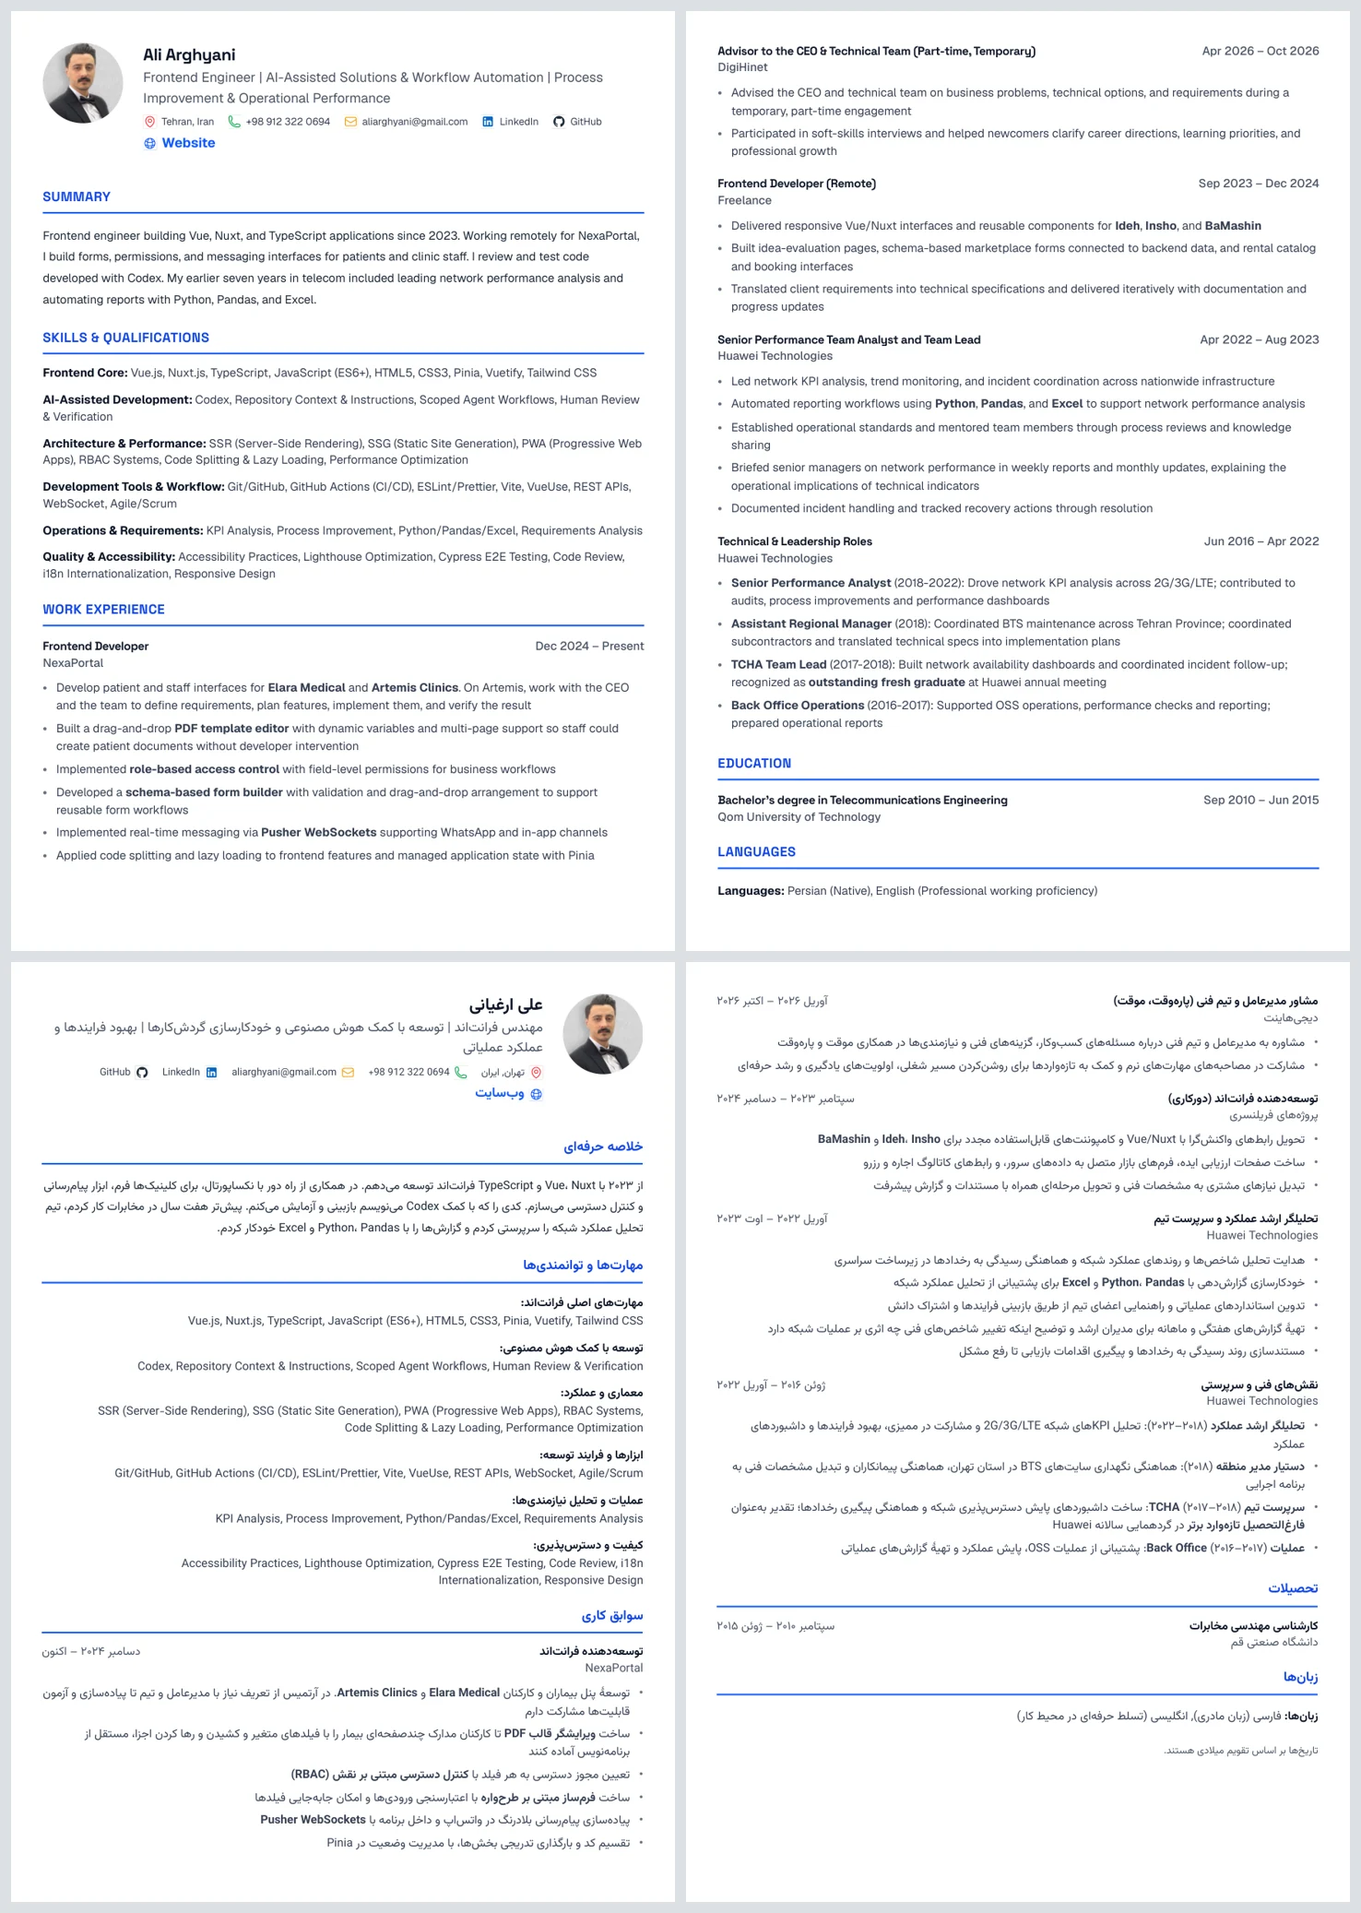
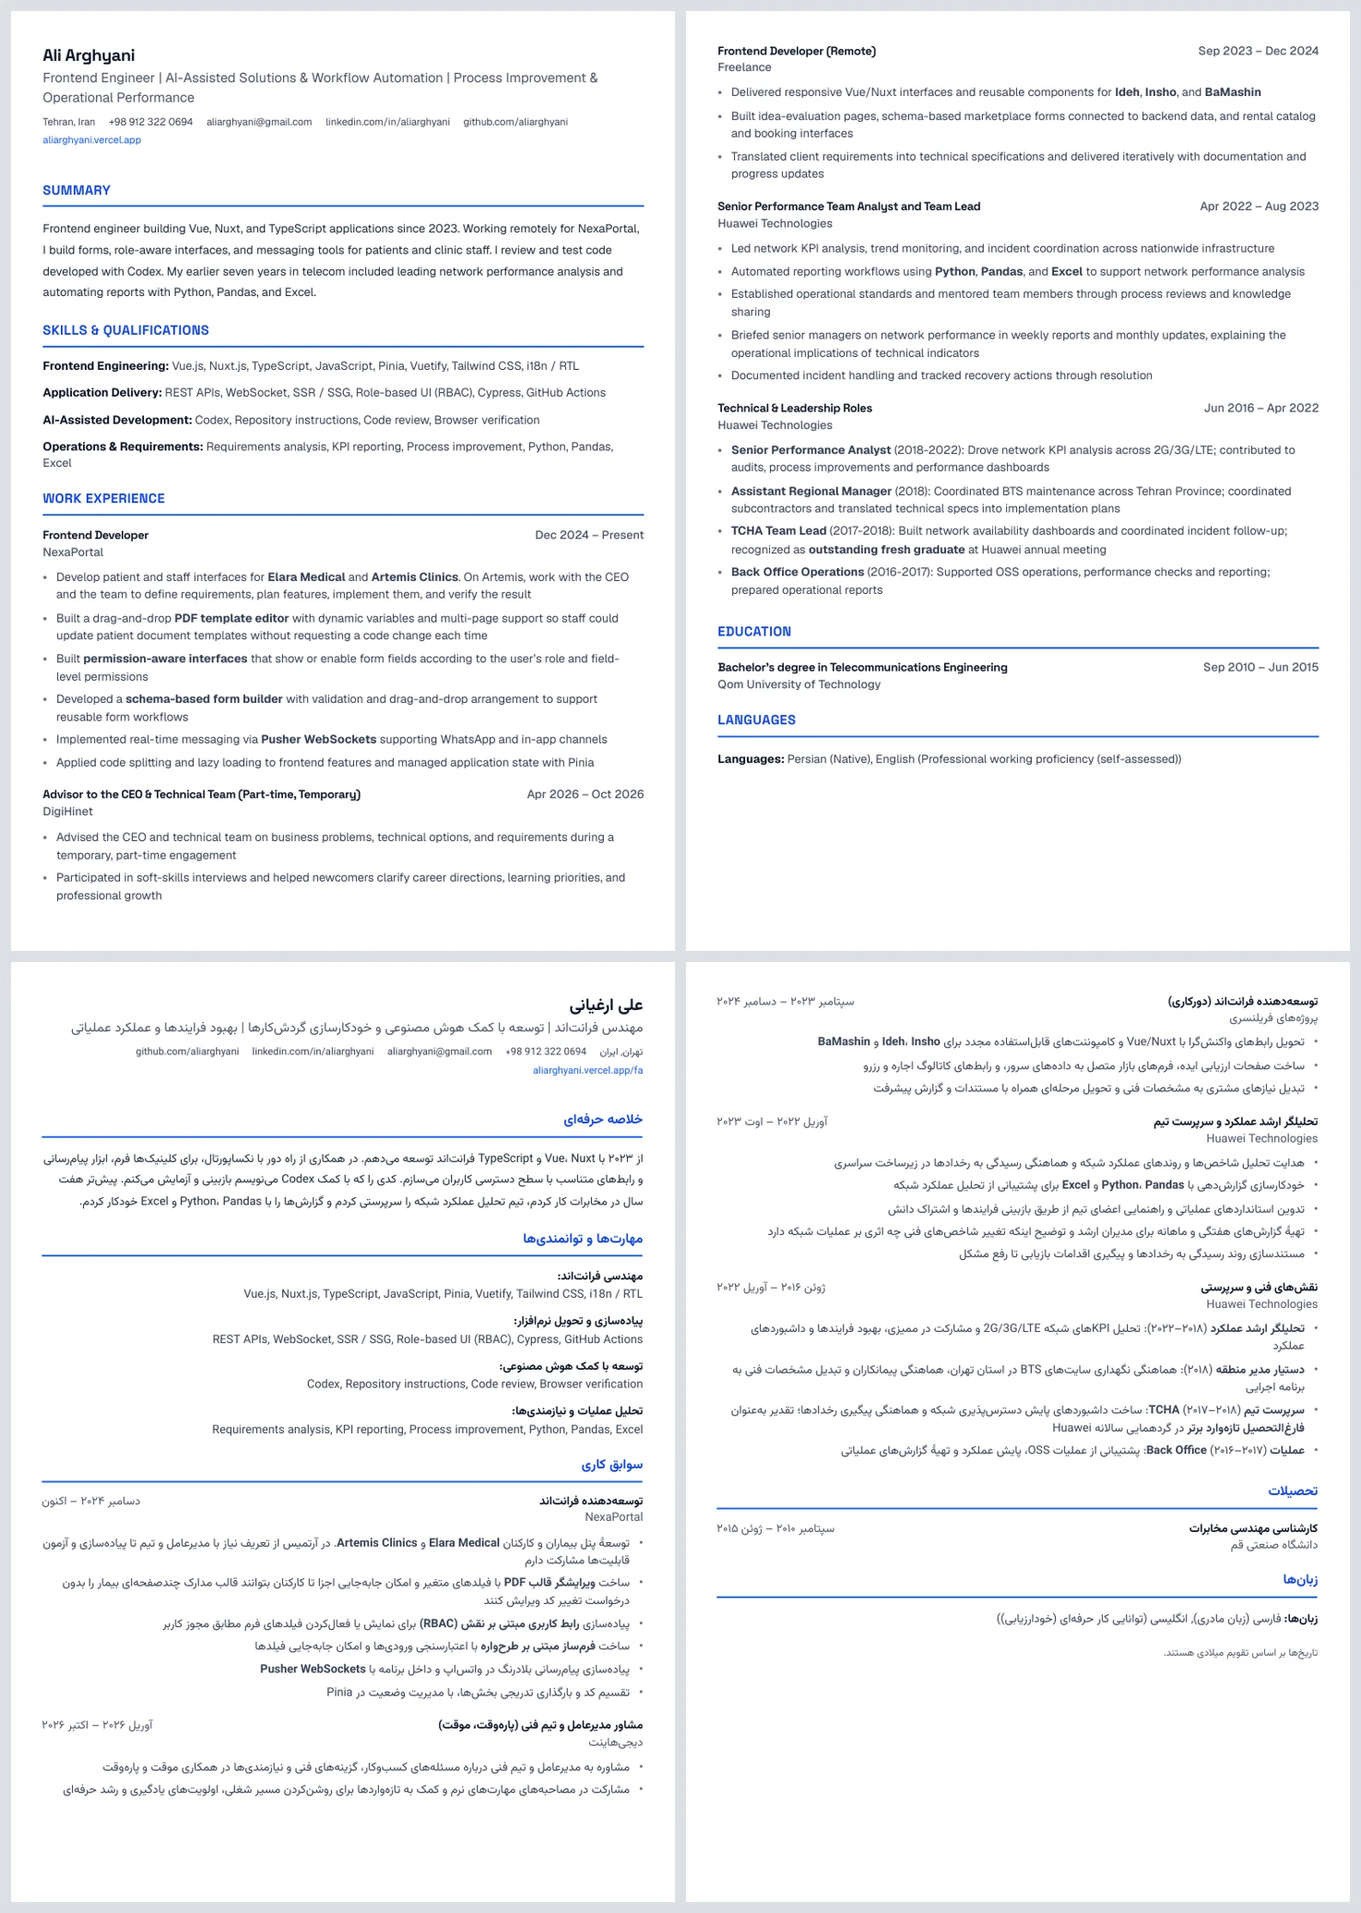
Refine bilingual resume content and application PDFs

diff --git a/app/data/resume.fa.ts b/app/data/resume.fa.ts
@@ -7,8 +7,8 @@ const workTranslations: Record<string, Partial<Resume["work"][number]>> = {
     location: "ازمیر، ترکیه · دورکاری",
     highlights: [
       "توسعهٔ پنل بیماران و کارکنان **Elara Medical** و **Artemis Clinics**. در آرتمیس از تعریف نیاز با مدیرعامل و تیم تا پیادهسازی و آزمون قابلیتها مشارکت دارم",
-      "ساخت **ویرایشگر قالب PDF** تا کارکنان مدارک چندصفحهای بیمار را با فیلدهای متغیر و کشیدن و رها کردن اجزا، مستقل از برنامهنویس آماده کنند",
-      "تعیین مجوز دسترسی به هر فیلد با **کنترل دسترسی مبتنی بر نقش (RBAC)**",
+      "ساخت **ویرایشگر قالب PDF** با فیلدهای متغیر و امکان جابهجایی اجزا تا کارکنان بتوانند قالب مدارک چندصفحهای بیمار را بدون درخواست تغییر کد ویرایش کنند",
+      "پیادهسازی **رابط کاربری مبتنی بر نقش (RBAC)** برای نمایش یا فعالکردن فیلدهای فرم مطابق مجوز کاربر",
       "ساخت **فرمساز مبتنی بر طرحواره** با اعتبارسنجی ورودیها و امکان جابهجایی فیلدها",
       "پیادهسازی پیامرسانی بلادرنگ در واتساپ و داخل برنامه با **Pusher WebSockets**",
       "تقسیم کد و بارگذاری تدریجی بخشها، با مدیریت وضعیت در Pinia",
@@ -56,12 +56,10 @@ const workTranslations: Record<string, Partial<Resume["work"][number]>> = {
 };
 
 const skillNames: Record<string, string> = {
-  "Frontend Core": "مهارتهای اصلی فرانتاند",
+  "Frontend Engineering": "مهندسی فرانتاند",
+  "Application Delivery": "پیادهسازی و تحویل نرمافزار",
   "AI-Assisted Development": "توسعه با کمک هوش مصنوعی",
-  "Architecture & Performance": "معماری و عملکرد",
-  "Development Tools & Workflow": "ابزارها و فرایند توسعه",
-  "Operations & Requirements": "عملیات و تحلیل نیازمندیها",
-  "Quality & Accessibility": "کیفیت و دسترسپذیری",
+  "Operations & Requirements": "تحلیل عملیات و نیازمندیها",
 };
 
 const projectTranslations: Record<
@@ -116,7 +114,7 @@ export const resumeData: Resume = {
       "مهندس فرانتاند | توسعه با کمک هوش مصنوعی و خودکارسازی گردشکارها | بهبود فرایندها و عملکرد عملیاتی",
     location: { city: "تهران", country: "ایران" },
     summary:
-      "از ۲۰۲۳ با Vue، Nuxt و TypeScript فرانتاند توسعه میدهم. در همکاری از راه دور با نکساپورتال، برای کلینیکها فرم، ابزار پیامرسانی و کنترل دسترسی میسازم. کدی را که با کمک Codex مینویسم بازبینی و آزمایش میکنم. پیشتر هفت سال در مخابرات کار کردم، تیم تحلیل عملکرد شبکه را سرپرستی کردم و گزارشها را با Python، Pandas و Excel خودکار کردم.",
+      "از ۲۰۲۳ با Vue، Nuxt و TypeScript فرانتاند توسعه میدهم. در همکاری از راه دور با نکساپورتال، برای کلینیکها فرم، ابزار پیامرسانی و رابطهای متناسب با سطح دسترسی کاربران میسازم. کدی را که با کمک Codex مینویسم بازبینی و آزمایش میکنم. پیشتر هفت سال در مخابرات کار کردم، تیم تحلیل عملکرد شبکه را سرپرستی کردم و گزارشها را با Python، Pandas و Excel خودکار کردم.",
   },
   work: en.work.map((job) => ({
     ...job,
@@ -140,7 +138,7 @@ export const resumeData: Resume = {
   })),
   languages: [
     { language: "فارسی", fluency: "زبان مادری" },
-    { language: "انگلیسی", fluency: "تسلط حرفهای در محیط کار" },
+    { language: "انگلیسی", fluency: "توانایی کار حرفهای (خودارزیابی)" },
   ],
   projects: en.projects?.map((project) => ({
     ...project,

diff --git a/app/data/resume.en.ts b/app/data/resume.en.ts
@@ -44,7 +44,7 @@ export const resumeData: Resume = {
       },
     ],
     summary:
-      "Frontend engineer building Vue, Nuxt, and TypeScript applications since 2023. Working remotely for NexaPortal, I build forms, permissions, and messaging interfaces for patients and clinic staff. I review and test code developed with Codex. My earlier seven years in telecom included leading network performance analysis and automating reports with Python, Pandas, and Excel.",
+      "Frontend engineer building Vue, Nuxt, and TypeScript applications since 2023. Working remotely for NexaPortal, I build forms, role-aware interfaces, and messaging tools for patients and clinic staff. I review and test code developed with Codex. My earlier seven years in telecom included leading network performance analysis and automating reports with Python, Pandas, and Excel.",
   },
 
   work: [
@@ -55,8 +55,8 @@ export const resumeData: Resume = {
       startDate: "2024-12",
       highlights: [
         "Develop patient and staff interfaces for **Elara Medical** and **Artemis Clinics**. On Artemis, work with the CEO and the team to define requirements, plan features, implement them, and verify the result",
-        "Built a drag-and-drop **PDF template editor** with dynamic variables and multi-page support so staff could create patient documents without developer intervention",
-        "Implemented **role-based access control** with field-level permissions for business workflows",
+        "Built a drag-and-drop **PDF template editor** with dynamic variables and multi-page support so staff could update patient document templates without requesting a code change each time",
+        "Built **permission-aware interfaces** that show or enable form fields according to the user’s role and field-level permissions",
         "Developed a **schema-based form builder** with validation and drag-and-drop arrangement to support reusable form workflows",
         "Implemented real-time messaging via **Pusher WebSockets** supporting WhatsApp and in-app channels",
         "Applied code splitting and lazy loading to frontend features and managed application state with Pinia",
@@ -131,70 +131,47 @@ export const resumeData: Resume = {
 
   skills: [
     {
-      name: "Frontend Core",
+      name: "Frontend Engineering",
       keywords: [
         "Vue.js",
         "Nuxt.js",
         "TypeScript",
-        "JavaScript (ES6+)",
-        "HTML5",
-        "CSS3",
+        "JavaScript",
         "Pinia",
         "Vuetify",
         "Tailwind CSS",
+        "i18n / RTL",
+      ],
+    },
+    {
+      name: "Application Delivery",
+      keywords: [
+        "REST APIs",
+        "WebSocket",
+        "SSR / SSG",
+        "Role-based UI (RBAC)",
+        "Cypress",
+        "GitHub Actions",
       ],
     },
     {
       name: "AI-Assisted Development",
       keywords: [
         "Codex",
-        "Repository Context & Instructions",
-        "Scoped Agent Workflows",
-        "Human Review & Verification",
-      ],
-    },
-    {
-      name: "Architecture & Performance",
-      keywords: [
-        "SSR (Server-Side Rendering)",
-        "SSG (Static Site Generation)",
-        "PWA (Progressive Web Apps)",
-        "RBAC Systems",
-        "Code Splitting & Lazy Loading",
-        "Performance Optimization",
-      ],
-    },
-    {
-      name: "Development Tools & Workflow",
-      keywords: [
-        "Git/GitHub",
-        "GitHub Actions (CI/CD)",
-        "ESLint/Prettier",
-        "Vite",
-        "VueUse",
-        "REST APIs",
-        "WebSocket",
-        "Agile/Scrum",
+        "Repository instructions",
+        "Code review",
+        "Browser verification",
       ],
     },
     {
       name: "Operations & Requirements",
       keywords: [
-        "KPI Analysis",
-        "Process Improvement",
-        "Python/Pandas/Excel",
-        "Requirements Analysis",
-      ],
-    },
-    {
-      name: "Quality & Accessibility",
-      keywords: [
-        "Accessibility Practices",
-        "Lighthouse Optimization",
-        "Cypress E2E Testing",
-        "Code Review",
-        "i18n Internationalization",
-        "Responsive Design",
+        "Requirements analysis",
+        "KPI reporting",
+        "Process improvement",
+        "Python",
+        "Pandas",
+        "Excel",
       ],
     },
   ],
@@ -206,7 +183,7 @@ export const resumeData: Resume = {
     },
     {
       language: "English",
-      fluency: "Professional working proficiency",
+      fluency: "Professional working proficiency (self-assessed)",
     },
   ],
 

diff --git a/app/components/resume/ResumeHeader.vue b/app/components/resume/ResumeHeader.vue
@@ -14,11 +14,11 @@ defineProps<Props>();
     class="flex flex-col sm:flex-row print:flex-row gap-4 sm:gap-6 mb-8 print:mb-8 print:pb-2"
   >
     <!-- Profile Photo (if provided) -->
-    <div v-if="basics.image" class="flex-shrink-0">
+    <div v-if="basics.image" class="flex-shrink-0 print:hidden">
       <img
         :src="basics.image"
         :alt="basics.name"
-        class="w-32 h-32 object-cover rounded-full print:w-24 print:h-24"
+        class="w-32 h-32 object-cover rounded-full"
       />
     </div>
 
@@ -39,7 +39,7 @@ defineProps<Props>();
         <span class="inline-flex items-center gap-1.5 whitespace-nowrap">
           <UIcon
             name="i-heroicons-map-pin"
-            class="text-red-500 flex-shrink-0 w-4 h-4"
+            class="text-red-500 flex-shrink-0 w-4 h-4 print:hidden"
           />
           {{ basics.location.city }}, {{ basics.location.country }}
         </span>
@@ -51,7 +51,7 @@ defineProps<Props>();
         >
           <UIcon
             name="i-heroicons-phone"
-            class="text-green-600 flex-shrink-0 w-4 h-4"
+            class="text-green-600 flex-shrink-0 w-4 h-4 print:hidden"
           />
           <bdi dir="ltr">{{ basics.phone }}</bdi>
         </a>
@@ -63,58 +63,28 @@ defineProps<Props>();
         >
           <UIcon
             name="i-heroicons-envelope"
-            class="text-amber-500 flex-shrink-0 w-4 h-4"
+            class="text-amber-500 flex-shrink-0 w-4 h-4 print:hidden"
           />
           <bdi dir="ltr">{{ basics.email }}</bdi>
         </a>
 
-        <!-- LinkedIn -->
-        <a
-          v-if="basics.profiles?.find((p) => p.network === 'LinkedIn')"
-          :href="basics.profiles.find((p) => p.network === 'LinkedIn')!.url"
-          target="_blank"
-          rel="noopener noreferrer"
-          class="inline-flex items-center gap-1.5 hover:text-blue-600 transition-colors whitespace-nowrap"
+        <div
+          v-for="profile in basics.profiles"
+          :key="profile.network"
+          :class="{ 'basis-full print:basis-auto': profile.network === 'Portfolio' }"
         >
-          <UIcon
-            name="i-mdi-linkedin"
-            class="text-[#0A66C2] flex-shrink-0 w-4 h-4"
-          />
-          LinkedIn
-        </a>
-
-        <!-- GitHub -->
-        <a
-          v-if="basics.profiles?.find((p) => p.network === 'GitHub')"
-          :href="basics.profiles.find((p) => p.network === 'GitHub')!.url"
-          target="_blank"
-          rel="noopener noreferrer"
-          class="inline-flex items-center gap-1.5 hover:text-blue-600 transition-colors whitespace-nowrap"
-        >
-          <UIcon
-            name="i-mdi-github"
-            class="text-gray-800 flex-shrink-0 w-4 h-4"
-          />
-          GitHub
-        </a>
-      </div>
-
-      <!-- Line 2: Website Only - Larger & Bolder -->
-      <div class="mt-1.5 flex items-center print:mt-1.5">
-        <!-- Website (Portfolio) - Prominent Display -->
-        <a
-          v-if="basics.profiles?.find((p) => p.network === 'Portfolio')"
-          :href="basics.profiles.find((p) => p.network === 'Portfolio')!.url"
-          target="_blank"
-          rel="noopener noreferrer"
-          class="inline-flex items-center gap-1.5 text-md font-bold text-blue-600 hover:text-blue-700 transition-colors print:text-md print:font-bold"
-        >
-          <UIcon
-            name="i-heroicons-globe-alt"
-            class="text-blue-600 flex-shrink-0 w-4 h-4 print:w-4 print:h-4"
-          />
-          {{ t("resume.website") }}
-        </a>
+          <a
+            :href="profile.url"
+            target="_blank"
+            rel="noopener noreferrer"
+            class="inline-flex items-center gap-1.5 whitespace-nowrap hover:text-blue-600"
+            :class="{ 'font-bold text-blue-600 print:font-normal': profile.network === 'Portfolio' }"
+          >
+            <UIcon v-if="profile.icon" :name="profile.icon" class="size-4 print:hidden" />
+            <span class="print:hidden">{{ profile.network === "Portfolio" ? t("resume.website") : profile.network }}</span>
+            <bdi dir="ltr" class="hidden print:inline">{{ profile.url.replace(/^https?:\/\//, "") }}</bdi>
+          </a>
+        </div>
       </div>
     </div>
   </div>

diff --git a/app/components/resume/ResumeExperience.vue b/app/components/resume/ResumeExperience.vue
@@ -32,7 +32,7 @@ const sortedWork = computed(() => {
     <div
       v-for="job in sortedWork"
       :key="job.company + job.startDate"
-      class="mb-8 last:mb-0 print:mb-8"
+      class="mb-8 last:mb-0 print:mb-8 print:break-inside-avoid"
     >
       <div
         class="flex flex-col sm:flex-row print:flex-row justify-between items-start gap-2 sm:gap-4"

diff --git a/docs/career-alignment-2026-11-18.md b/docs/career-alignment-2026-11-18.md
@@ -66,5 +66,7 @@ The published baseline returned HTTP 200 for the two homepages, both résumé ro
 
 - The final local production build prerendered 24 routes using Node 22.14.0 and pnpm 9.12.1. Typecheck, formatting on all eight changed source files and the Git whitespace check passed.
 - The portfolio suite passed 33 page checks plus dialog, accordion, draft-route, sitemap and SSR checks. The locale suite passed all 24 résumé combinations across six widths, two themes and two languages, including additional keyboard and reading-position checks. The four public repository links matched the requested order. [Homepages](./career-alignment-2026-11-18/homepages.webp) · [Expanded case](./career-alignment-2026-11-18/portfolio-case.webp)
-- Both PDF responses supplied the expected language, filename and MIME type. Each document has two A4 pages and five working PDF link annotations verified by target. Both job headlines were present in extracted text. All measured text bounds fell inside the page. The Persian PDF embeds Vazirmatn, opens the Persian portfolio and begins its second page at DigiHinet after an editorial revision. [Rendered pages](./career-alignment-2026-11-18/resumes.webp)
+- The follow-up résumé review grouped skills into four categories and clarified the frontend permission work, the template editor workflow and the basis for the English proficiency rating. The web résumé retains the portrait. The application PDF omits it and prints the LinkedIn, GitHub and portfolio addresses as selectable, clickable text.
+- The production PDF endpoints returned both expected filenames, languages and MIME types. Each document has two A4 pages, five verified link targets and a searchable job headline. All measured text bounds fit the page. Both second pages start with the freelance role. The Persian document embeds Vazirmatn and links to the Persian portfolio. [Rendered pages](./career-alignment-2026-11-18/resumes.webp)
+- In the follow-up browser run, all 24 résumé combinations, the screen and print header checks, and reading-position checks passed. The broader suite timed out switching the English career-change blog post to Persian. A focused retry reproduced that timeout. The blog language switch remains unresolved in local preview.
 - Local checks used installed Chrome on Windows. Build output included warnings about browser data age, bundle sizes, icon loading, Puppeteer packaging and Windows Sharp binaries. GitHub rate-limited the contribution widget during local preview. Its live activity data remains unverified.
